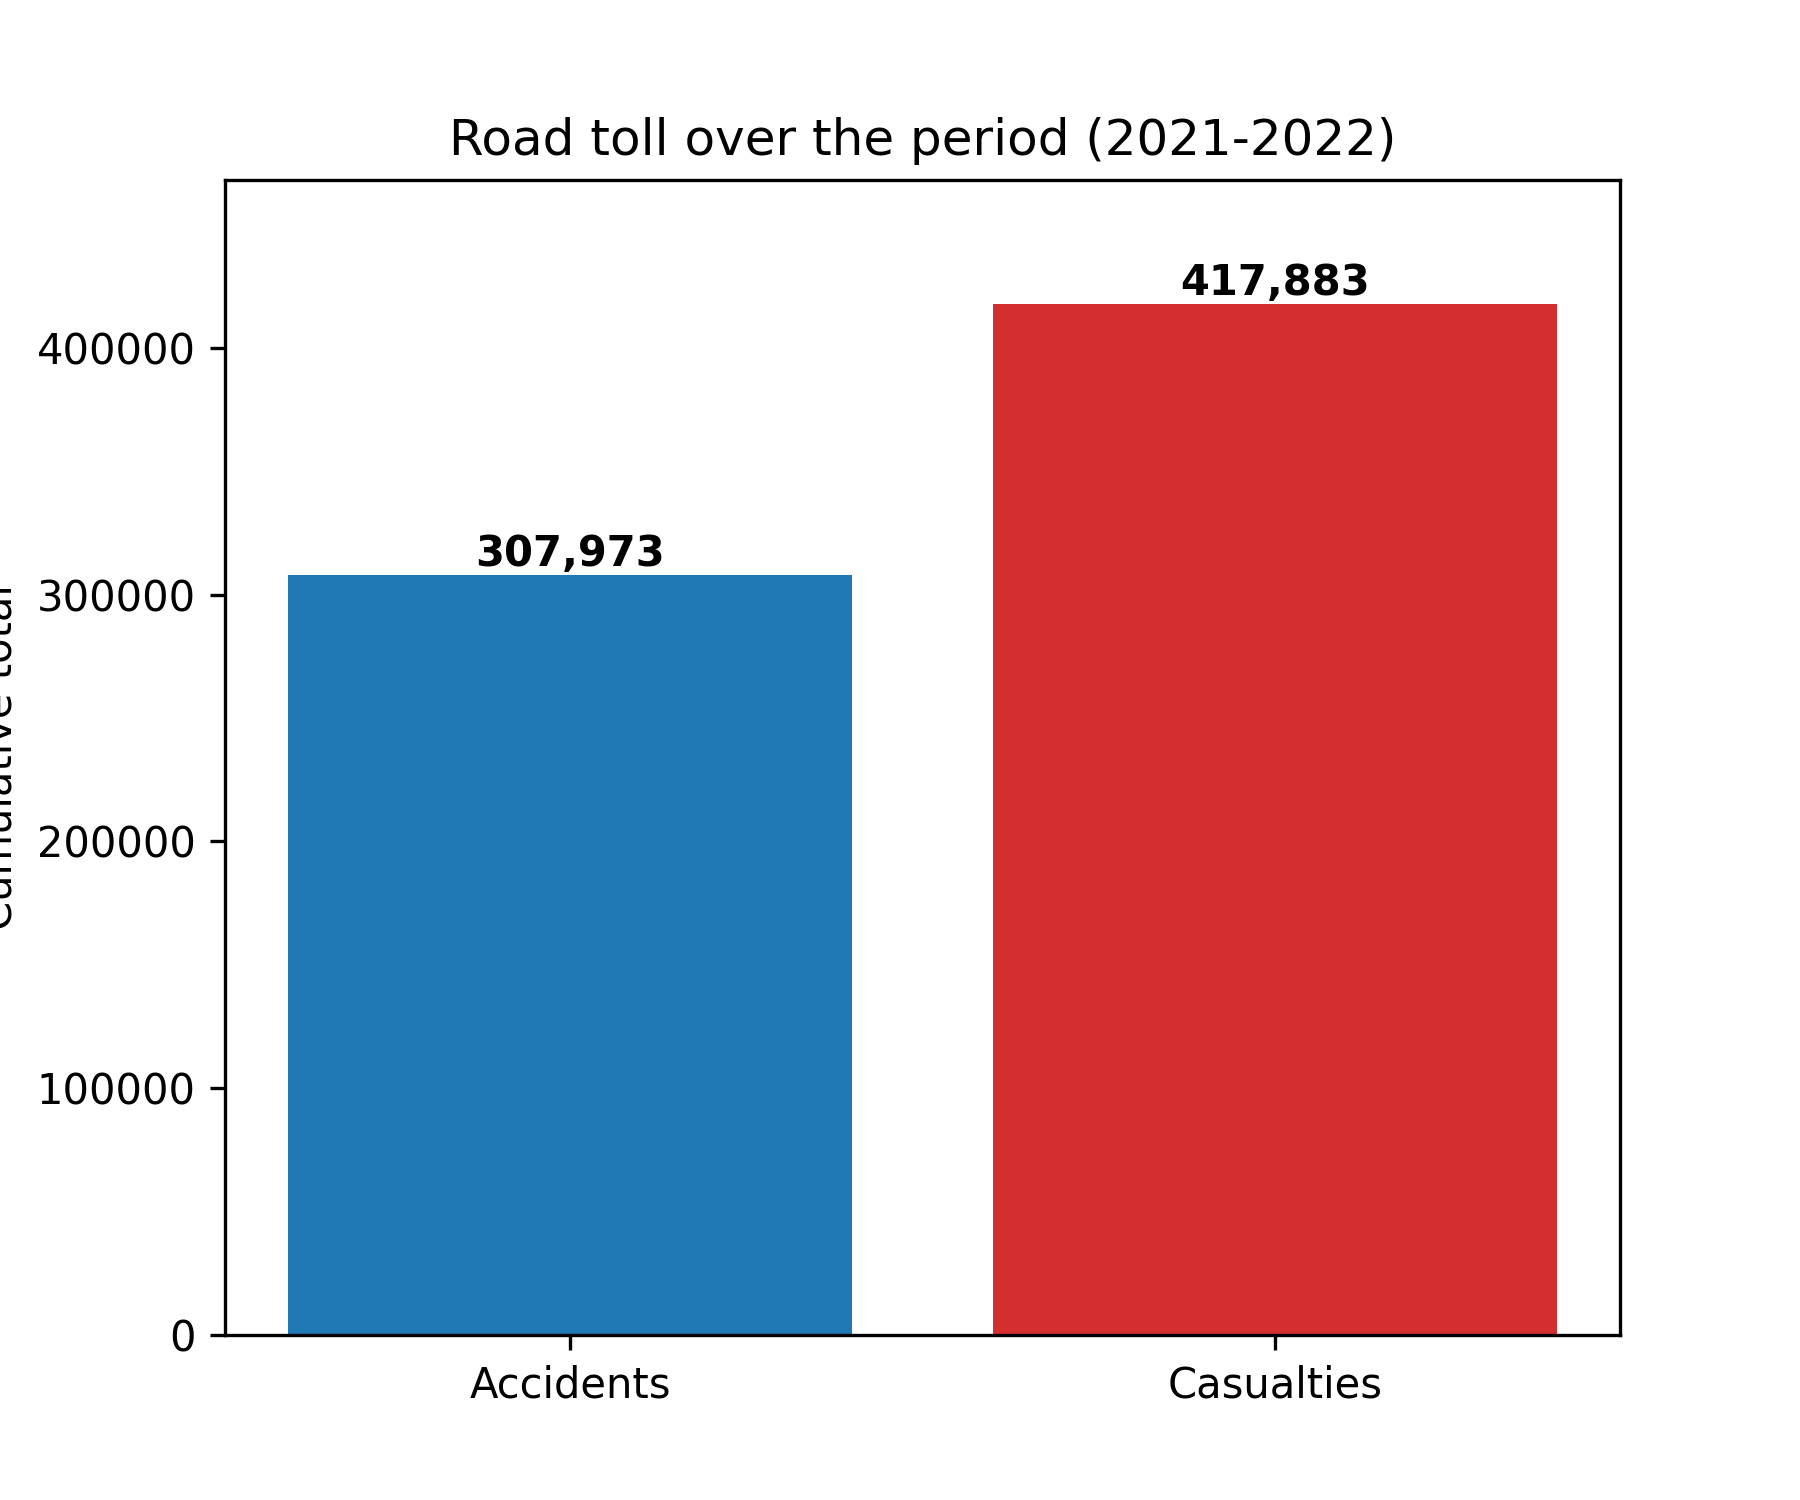
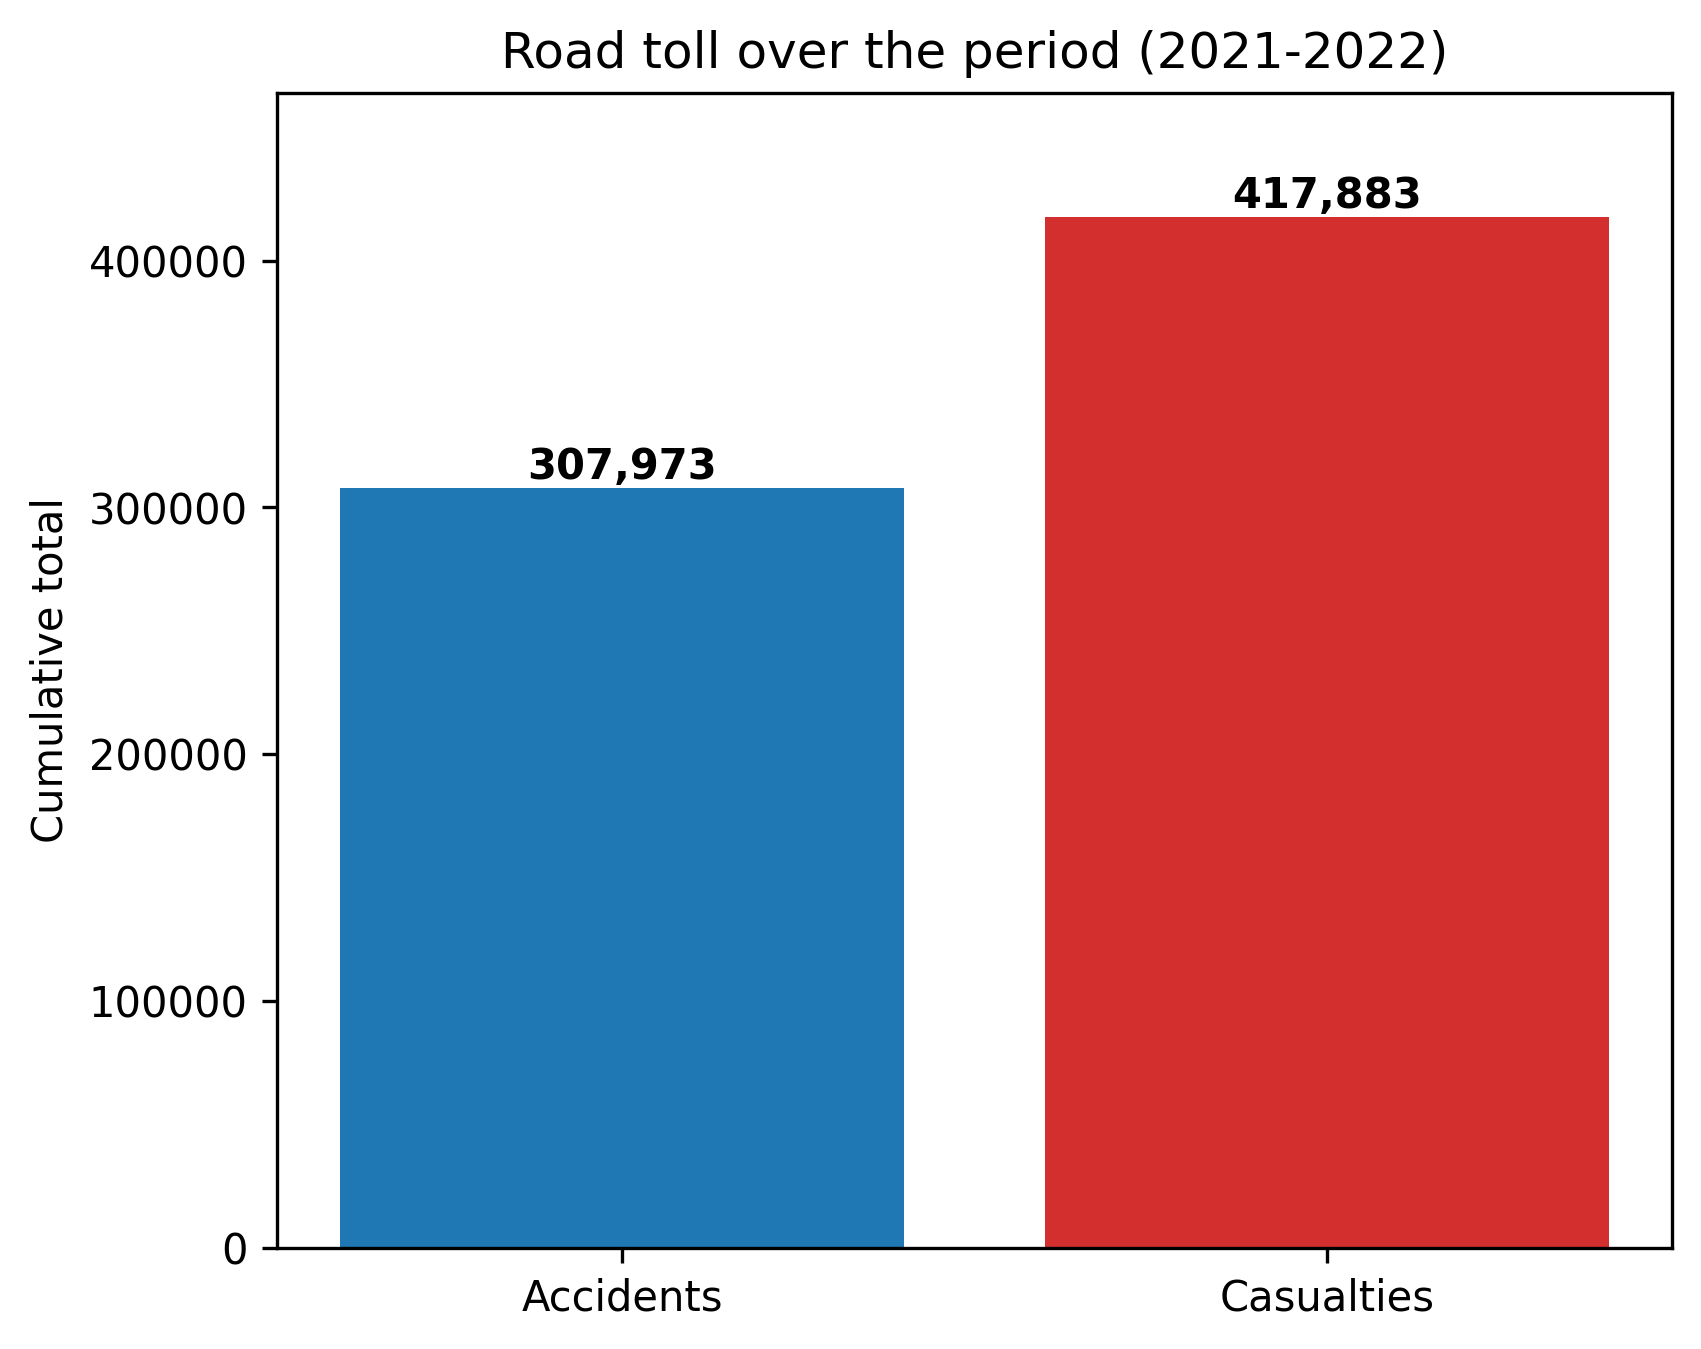
correction plot save + new plots

Changed region(s): [[0.0, 0.0, 0.9971, 0.9963], [0.0, 0.1868, 0.1869, 0.2491]]

diff --git a/road_accident.py b/road_accident.py
@@ -150,7 +150,7 @@ def _(df, plt):
     ax_tot.set_title("Road toll over the period (2021-2022)")
     ax_tot.set_ylabel("Cumulative total")
     ax_tot.margins(y=0.12)  # marge en haut pour ne pas couper les étiquettes
-    fig_tot.savefig("plots/bilan_total.png", dpi=300)
+    fig_tot.savefig("plots/bilan_total.png", dpi=300, bbox_inches="tight")
     fig_tot
     return
 
